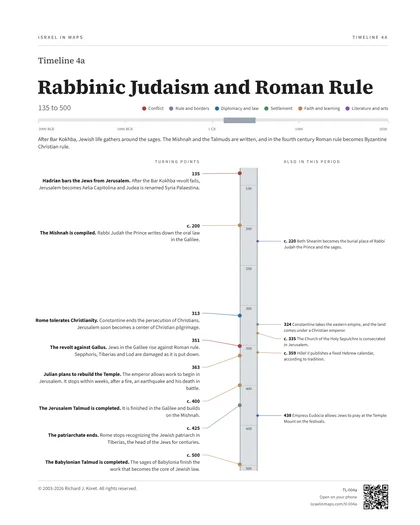
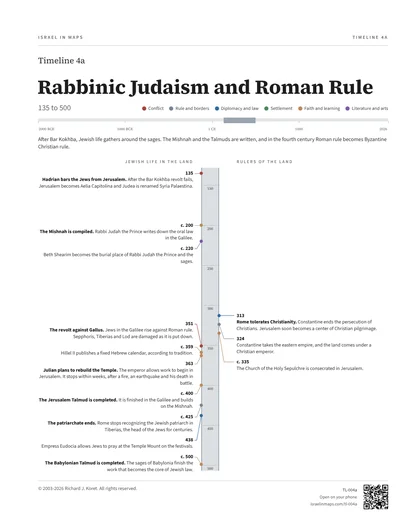
Timelines 135 to 1799: Jewish life left, rulers right; green menu on one row
Claude-Session: https://claude.ai/code/session_018gUa1G8nU9G3NzqqPm2U95

diff --git a/subnav.js b/subnav.js
@@ -30,7 +30,7 @@
     function swap(re,qs){qs.forEach(function(q){var x=row.querySelector('a[href="'+q[0]+'"]');if(x)x.textContent=q[1]});var f=links.filter(function(x){return re.test(x.getAttribute('href'))})[0];if(!f)return;var i=links.indexOf(f),add=[];qs.forEach(function(q){var x=row.querySelector('a[href="'+q[0]+'"]');if(!x){x=document.createElement('a');x.href=q[0];x.textContent=q[1];f.parentNode.insertBefore(x,f)}x.textContent=q[1];add.push(x)});links.splice.apply(links,[i,1].concat(add));f.remove();links=links.filter(function(x,j){return links.indexOf(x)===j})}
     swap(/^\/timelines\/002\//,[['/timelines/002a/kings-and-prophets/','Kings & Prophets'],['/timelines/002b/exile-and-return/','Exile & Return']]);
     swap(/^\/timelines\/012\//,[['/timelines/012a/independence-and-ingathering/','1948–1955'],['/timelines/012b/sinai-and-the-years-between/','1956–1966']]);swap(/^\/timelines\/013\//,[['/timelines/013a/the-six-day-war-and-yom-kippur/','1967–1976']]);swap(/^\/timelines\/014\//,[['/timelines/014a/upheaval-peace-and-intifada/','1977–1992']]);swap(/^\/timelines\/016\//,[['/timelines/016a/oslo-and-the-second-intifada/','1993–2004']]);swap(/^\/timelines\/017\//,[['/timelines/017a/disengagement-and-the-gaza-wars/','2005–2014']]);swap(/^\/timelines\/018\//,[['/timelines/018a/abraham-accords-to-october-7/','2015–2023']]);swap(/^\/timelines\/019\//,[['/timelines/019a/war-on-many-fronts/','2024–2026']]);links=links.filter(function(x){if(/^\/timelines\/01[2-9]\//.test(x.getAttribute('href'))){x.remove();return false}return true});
-    swap(/^\/timelines\/004\//,[['/timelines/004a/rabbinic-judaism-and-roman-rule/','Rabbinic'],['/timelines/004b/byzantine-decline-and-islamic-conquest/','Muslim'],['/timelines/004c/abbasid-and-early-medieval-judaism/','Abbasid'],['/timelines/004d/crusaders-and-ayyubids/','Crusader'],['/timelines/004e/mamluk-rule-and-the-spanish-expulsion/','Mamluk'],['/timelines/004f/ottoman-rule-and-jewish-resettlement/','Ottoman']]);
+    swap(/^\/timelines\/004\//,[['/timelines/004a/rabbinic-judaism-and-roman-rule/','Roman'],['/timelines/004b/byzantine-decline-and-islamic-conquest/','Muslim'],['/timelines/004c/abbasid-and-early-medieval-judaism/','Abbasid'],['/timelines/004d/crusaders-and-ayyubids/','Crusader'],['/timelines/004e/mamluk-rule-and-the-spanish-expulsion/','Mamluk'],['/timelines/004f/ottoman-rule-and-jewish-resettlement/','Ottoman']]);
     function stripes(y0,y1,n,a,b,f0,f1,nm){var r=[],w=(y1-y0)/n;for(var k=0;k<n;k++){var f=f0+(f1-f0)*k/(n-1),x=y0+k*w;r.push([x,x+w*(1-f),a,nm]);r.push([x+w*(1-f),x+w,b,nm])}return r}
     function mixc(a,b,t){var x=parseInt(a.slice(1),16),y=parseInt(b.slice(1),16),o='#';for(var s=16;s>=0;s-=8){var v=Math.round(((x>>s)&255)*(1-t)+((y>>s)&255)*t);o+=(v<16?'0':'')+v.toString(16)}return o}
     function ramp(ys,a,b){var r=[];for(var k=0;k<ys.length-1;k++)r.push([ys[k],ys[k+1],mixc(a,b,ys.length>2?k/(ys.length-2):0)]);return r}
@@ -57,7 +57,7 @@
       '.subnav.sub2.tl2{display:block;padding:8px 16px 10px}'+
       '.tl-eras{position:relative;max-width:900px;margin:0 auto;height:54px;background:linear-gradient(#0000 26px,#fff 26px);user-select:none}'+'.tl-eras .tb{position:absolute;top:0;height:26px;border:0;padding:0;margin:0;cursor:pointer;background:var(--c);transition:filter .15s}'+'.tl-eras .tb:hover{filter:brightness(.96)}'+'.tl-eras .tb[aria-selected=true]{box-shadow:inset 0 4px 0 #111}'+'.tl-eras .tb:focus-visible{outline:2px solid #111;outline-offset:1px;z-index:2}'+'.tl-eras .base{position:absolute;left:0;right:0;top:26px;height:1.5px;background:#111;pointer-events:none}'+'.tl-eras .tk{position:absolute;top:26px;width:1px;height:4px;background:#777;pointer-events:none}'+'.tl-eras .tk.mj{height:9px;width:1.5px;background:#111}'+'.tl-eras .lb{position:absolute;top:37px;transform:translateX(-50%);font:600 .7rem/1 system-ui,-apple-system,sans-serif;color:#111;white-space:nowrap;pointer-events:none}'+'.tl-eras .lb.st{transform:none}.tl-eras .lb.en{transform:translateX(-100%)}'+'.tl-eras .brk{position:absolute;top:0;width:3px;height:26px;margin-left:-1.5px;background:#fff;opacity:.9;transform:skewX(-12deg);pointer-events:none;z-index:1}'+'.tl-eras .lb i,.tl-eras .lb b{display:none}'+'.tl-list{display:flex;flex-wrap:wrap;justify-content:center;gap:2px 4px;margin-top:0}.tl-list.tl-sub{margin-top:2px}.tl-list[hidden]{display:none}'+
       '.subnav.sub2.tl2 .tl-list a{flex:none;border-radius:0!important;color:#222!important;transition:filter .15s}'+'.subnav.sub2.tl2 .tl-list a:hover{filter:brightness(.96)!important}'+'.subnav.sub2.tl2 .tl-list a.on{box-shadow:inset 0 4px 0 #111!important;color:#000!important}'+
-      '@media (max-width:700px){header.top .subnav.sub2.tl2 .tl-list.six a{flex:1 0 calc(33.3% - 4px)!important;text-align:center}.tl-eras .lb{font-size:.64rem}.tl-eras .lb b{display:none}}'+
+      '@media (max-width:700px){header.top .subnav.sub2.tl2 .tl-list.six{flex-wrap:nowrap;gap:0 2px}header.top .subnav.sub2.tl2 .tl-list.six a{flex:1 1 0!important;min-width:0;padding:6px 0!important;font-size:.7rem!important;text-align:center;white-space:nowrap;letter-spacing:-.01em}.tl-eras .lb{font-size:.64rem}.tl-eras .lb b{display:none}}'+
       '@media (max-width:380px){header.top .subnav.sub2.tl2 .tl-list a{padding:5px 2px!important;font-size:.74rem!important}.tl-eras .lb{font-size:.56rem}.tl-eras .lb.ce{display:none}}'+
       '@media (max-width:700px){.subnav.sub2.tl2{padding:8px 8px 8px}.tl-list{gap:0 2px}header.top .subnav.sub2.tl2 .tl-list a{padding:5px 4px!important;font-size:.8rem!important}.tl-list{justify-content:space-between!important}}';
       document.head.appendChild(st)}

diff --git a/tools/subnav.js b/tools/subnav.js
@@ -30,7 +30,7 @@
     function swap(re,qs){qs.forEach(function(q){var x=row.querySelector('a[href="'+q[0]+'"]');if(x)x.textContent=q[1]});var f=links.filter(function(x){return re.test(x.getAttribute('href'))})[0];if(!f)return;var i=links.indexOf(f),add=[];qs.forEach(function(q){var x=row.querySelector('a[href="'+q[0]+'"]');if(!x){x=document.createElement('a');x.href=q[0];x.textContent=q[1];f.parentNode.insertBefore(x,f)}x.textContent=q[1];add.push(x)});links.splice.apply(links,[i,1].concat(add));f.remove();links=links.filter(function(x,j){return links.indexOf(x)===j})}
     swap(/^\/timelines\/002\//,[['/timelines/002a/kings-and-prophets/','Kings & Prophets'],['/timelines/002b/exile-and-return/','Exile & Return']]);
     swap(/^\/timelines\/012\//,[['/timelines/012a/independence-and-ingathering/','1948–1955'],['/timelines/012b/sinai-and-the-years-between/','1956–1966']]);swap(/^\/timelines\/013\//,[['/timelines/013a/the-six-day-war-and-yom-kippur/','1967–1976']]);swap(/^\/timelines\/014\//,[['/timelines/014a/upheaval-peace-and-intifada/','1977–1992']]);swap(/^\/timelines\/016\//,[['/timelines/016a/oslo-and-the-second-intifada/','1993–2004']]);swap(/^\/timelines\/017\//,[['/timelines/017a/disengagement-and-the-gaza-wars/','2005–2014']]);swap(/^\/timelines\/018\//,[['/timelines/018a/abraham-accords-to-october-7/','2015–2023']]);swap(/^\/timelines\/019\//,[['/timelines/019a/war-on-many-fronts/','2024–2026']]);links=links.filter(function(x){if(/^\/timelines\/01[2-9]\//.test(x.getAttribute('href'))){x.remove();return false}return true});
-    swap(/^\/timelines\/004\//,[['/timelines/004a/rabbinic-judaism-and-roman-rule/','Rabbinic'],['/timelines/004b/byzantine-decline-and-islamic-conquest/','Muslim'],['/timelines/004c/abbasid-and-early-medieval-judaism/','Abbasid'],['/timelines/004d/crusaders-and-ayyubids/','Crusader'],['/timelines/004e/mamluk-rule-and-the-spanish-expulsion/','Mamluk'],['/timelines/004f/ottoman-rule-and-jewish-resettlement/','Ottoman']]);
+    swap(/^\/timelines\/004\//,[['/timelines/004a/rabbinic-judaism-and-roman-rule/','Roman'],['/timelines/004b/byzantine-decline-and-islamic-conquest/','Muslim'],['/timelines/004c/abbasid-and-early-medieval-judaism/','Abbasid'],['/timelines/004d/crusaders-and-ayyubids/','Crusader'],['/timelines/004e/mamluk-rule-and-the-spanish-expulsion/','Mamluk'],['/timelines/004f/ottoman-rule-and-jewish-resettlement/','Ottoman']]);
     function stripes(y0,y1,n,a,b,f0,f1,nm){var r=[],w=(y1-y0)/n;for(var k=0;k<n;k++){var f=f0+(f1-f0)*k/(n-1),x=y0+k*w;r.push([x,x+w*(1-f),a,nm]);r.push([x+w*(1-f),x+w,b,nm])}return r}
     function mixc(a,b,t){var x=parseInt(a.slice(1),16),y=parseInt(b.slice(1),16),o='#';for(var s=16;s>=0;s-=8){var v=Math.round(((x>>s)&255)*(1-t)+((y>>s)&255)*t);o+=(v<16?'0':'')+v.toString(16)}return o}
     function ramp(ys,a,b){var r=[];for(var k=0;k<ys.length-1;k++)r.push([ys[k],ys[k+1],mixc(a,b,ys.length>2?k/(ys.length-2):0)]);return r}
@@ -57,7 +57,7 @@
       '.subnav.sub2.tl2{display:block;padding:8px 16px 10px}'+
       '.tl-eras{position:relative;max-width:900px;margin:0 auto;height:54px;background:linear-gradient(#0000 26px,#fff 26px);user-select:none}'+'.tl-eras .tb{position:absolute;top:0;height:26px;border:0;padding:0;margin:0;cursor:pointer;background:var(--c);transition:filter .15s}'+'.tl-eras .tb:hover{filter:brightness(.96)}'+'.tl-eras .tb[aria-selected=true]{box-shadow:inset 0 4px 0 #111}'+'.tl-eras .tb:focus-visible{outline:2px solid #111;outline-offset:1px;z-index:2}'+'.tl-eras .base{position:absolute;left:0;right:0;top:26px;height:1.5px;background:#111;pointer-events:none}'+'.tl-eras .tk{position:absolute;top:26px;width:1px;height:4px;background:#777;pointer-events:none}'+'.tl-eras .tk.mj{height:9px;width:1.5px;background:#111}'+'.tl-eras .lb{position:absolute;top:37px;transform:translateX(-50%);font:600 .7rem/1 system-ui,-apple-system,sans-serif;color:#111;white-space:nowrap;pointer-events:none}'+'.tl-eras .lb.st{transform:none}.tl-eras .lb.en{transform:translateX(-100%)}'+'.tl-eras .brk{position:absolute;top:0;width:3px;height:26px;margin-left:-1.5px;background:#fff;opacity:.9;transform:skewX(-12deg);pointer-events:none;z-index:1}'+'.tl-eras .lb i,.tl-eras .lb b{display:none}'+'.tl-list{display:flex;flex-wrap:wrap;justify-content:center;gap:2px 4px;margin-top:0}.tl-list.tl-sub{margin-top:2px}.tl-list[hidden]{display:none}'+
       '.subnav.sub2.tl2 .tl-list a{flex:none;border-radius:0!important;color:#222!important;transition:filter .15s}'+'.subnav.sub2.tl2 .tl-list a:hover{filter:brightness(.96)!important}'+'.subnav.sub2.tl2 .tl-list a.on{box-shadow:inset 0 4px 0 #111!important;color:#000!important}'+
-      '@media (max-width:700px){header.top .subnav.sub2.tl2 .tl-list.six a{flex:1 0 calc(33.3% - 4px)!important;text-align:center}.tl-eras .lb{font-size:.64rem}.tl-eras .lb b{display:none}}'+
+      '@media (max-width:700px){header.top .subnav.sub2.tl2 .tl-list.six{flex-wrap:nowrap;gap:0 2px}header.top .subnav.sub2.tl2 .tl-list.six a{flex:1 1 0!important;min-width:0;padding:6px 0!important;font-size:.7rem!important;text-align:center;white-space:nowrap;letter-spacing:-.01em}.tl-eras .lb{font-size:.64rem}.tl-eras .lb b{display:none}}'+
       '@media (max-width:380px){header.top .subnav.sub2.tl2 .tl-list a{padding:5px 2px!important;font-size:.74rem!important}.tl-eras .lb{font-size:.56rem}.tl-eras .lb.ce{display:none}}'+
       '@media (max-width:700px){.subnav.sub2.tl2{padding:8px 8px 8px}.tl-list{gap:0 2px}header.top .subnav.sub2.tl2 .tl-list a{padding:5px 4px!important;font-size:.8rem!important}.tl-list{justify-content:space-between!important}}';
       document.head.appendChild(st)}

diff --git a/tools/newtimelines/gen_dual.py b/tools/newtimelines/gen_dual.py
@@ -1,0 +1,46 @@
+"""Green-era pages: Jewish life in the left column, the ruling powers in the right, one shared axis."""
+import json, sys, os
+sys.path.insert(0, os.path.dirname(__file__))
+import gen
+from data4 import PAGES
+from playwright.sync_api import sync_playwright
+T = gen.TPL
+R = [
+ ('.axis{position:absolute;left:685px;', '.axis{position:absolute;left:575px;'),
+ ('.tick{position:absolute;left:685px;', '.tick{position:absolute;left:575px;'),
+ ('.tl{position:absolute;left:687px;', '.tl{position:absolute;left:577px;'),
+ ('.tp{position:absolute;right:629px;width:470px;text-align:right;font:400 14.6px/1.36 SSans;', '.tp{position:absolute;right:648px;width:443px;text-align:right;font:400 var(--fs)/1.32 SSans;'),
+ ('.tp b.y{display:block;font:700 14.6px SSans;color:#222}', '.tp b.y,.al b.y{display:block;font-weight:700;color:#111}'),
+ ('.al{position:absolute;left:811px;width:298px;font:400 12.6px/1.33 SSans;color:#333}.al b{font-weight:700;font-size:13.6px;color:#111}',
+  '.al{position:absolute;left:676px;width:433px;font:400 var(--fs)/1.32 SSans;color:#333}.al b.h{font-weight:700;color:#111}body{--fs:14px}'),
+ ("h1.textContent='TURNING POINTS';h1.style.top=top0+'px';h1.style.right='629px'", "h1.textContent='JEWISH LIFE IN THE LAND';h1.style.top=top0+'px';h1.style.right='648px'"),
+ ("h2.textContent='ALSO IN THIS PERIOD';h2.style.top=top0+'px';h2.style.left='811px'", "h2.textContent='RULERS OF THE LAND';h2.style.top=top0+'px';h2.style.left='676px'"),
+ ("const tp=ord(D.tp),al=ord(D.also);", "const tp=ord(D.left),al=ord(D.right);"),
+ ("const tpp=stack(tp,it=>{const e=document.createElement('div');e.className='tp';e.innerHTML='<b class=\"y\">'+it[0]+'</b><b class=\"h\">'+it[3]+'</b> '+it[4];return e},16,9);",
+  "const mk=c=>it=>{const e=document.createElement('div');e.className=c;e.innerHTML='<b class=\"y\">'+it[0]+'</b>'+(it[3]?'<b class=\"h\">'+it[3]+'</b> ':'')+it[4];return e};let tpp,alp;"
+  "for(const fs of [14,13.4,12.8,12.2,11.6]){document.querySelectorAll('.tp,.al').forEach(e=>e.remove());document.body.style.setProperty('--fs',fs+'px');tpp=stack(tp,mk('tp'),fs*.8,9);alp=stack(al,mk('al'),fs*.8,9);"
+  "const bot=Math.max(...[...document.querySelectorAll('.tp,.al')].map(e=>e.offsetTop+e.offsetHeight));if(bot<=A1+6)break}"),
+ ("'<path d=\"M578 '+y1+' H593 L685 '+y2+'\"", "'<path d=\"M556 '+y1+' H562 L575 '+y2+'\""),
+ ("'<circle cx=\"685\" cy=\"'+y2+'\" r=\"5.5\"", "'<circle cx=\"575\" cy=\"'+y2+'\" r=\"4.6\""),
+ ("const alp=stack(al,it=>{const e=document.createElement('div');e.className='al';e.innerHTML='<b>'+it[0]+'</b> '+it[3];return e},6,9);", ""),
+ ("'<path d=\"M736 '+y2+' L790 '+y1+' H804\"", "'<path d=\"M626 '+y2+' L640 '+y1+' H669\""),
+ ("'<circle cx=\"736\" cy=\"'+y2+'\" r=\"3.6\"", "'<circle cx=\"626\" cy=\"'+y2+'\" r=\"4.6\""),
+ ("S+='<path d=\"M626 '+y2+' L640 '+y1+' H669\" stroke=\"'+C[it[2]]+'\" stroke-width=\"1\"", "S+='<path d=\"M626 '+y2+' L640 '+y1+' H669\" stroke=\"'+C[it[2]]+'\" stroke-width=\"1.2\""),
+]
+for a, b in R:
+    assert a in T, a[:70]; T = T.replace(a, b)
+T = T.replace("pos=pos.map(p=>Math.max(p,A0));els.forEach((e,i)=>e.style.top=pos[i]+'px');return pos}", "pos=pos.map(p=>Math.max(p,A0));for(let i=1;i<els.length;i++)pos[i]=Math.max(pos[i],pos[i-1]+els[i-1].offsetHeight+gap);els.forEach((e,i)=>e.style.top=pos[i]+'px');return pos}")
+T = T.replace("const tf=", "const tf=")
+with sync_playwright() as p:
+    b = p.chromium.launch()
+    for P in PAGES:
+        n = P['id'].lstrip('0')
+        D = dict(y0=P['y0'], y1=P['y1'], step=P['step'], left=P['left'], right=P['right'], tp=[], also=[])
+        h = (T.replace('%FONTS%', gen.FONTS).replace('%NUMUP%', n.upper()).replace('%NUM%', n).replace('%TITLE%', P['title'])
+             .replace('%RNG%', P.get('rng') or f"{P['y0']} to {P['y1']}").replace('%INTRO%', P['intro']).replace('%ID%', P['id'])
+             .replace('%QR%', gen.qr('https://israelinmaps.com/tl-' + P['id'])).replace('%CAT%', json.dumps(gen.CAT)).replace('%DATA%', json.dumps(D)))
+        pg = b.new_page(viewport={'width': 1200, 'height': 1500}); pg.on('pageerror', lambda e: print('ERR', e))
+        pg.set_content(h); pg.wait_for_function('window.OVER!==undefined')
+        print(P['id'], 'over', pg.evaluate('window.OVER'), pg.evaluate("getComputedStyle(document.body).getPropertyValue('--fs')"))
+        pg.screenshot(path=f'{sys.argv[1]}/{P["id"]}.png'); pg.close()
+    b.close()

diff --git a/tools/newtimelines/data4.py b/tools/newtimelines/data4.py
@@ -1,0 +1,12 @@
+# Green-era pages split into Jewish life (left) and the ruling powers (right).
+import data3
+LEFT = {135,200,351,363,400,425,499,220,359,438, 614,629,520,589, 900,928,880,920,921, 1190,1141,1165,1170,1211,
+        1267,1474,1488,1492,1322,1400,1428,1481,1497, 1565,1570,1660,1665,1700,1740,1540,1561,1577,1621,1648,1742,1777}
+PAGES = []
+for P in data3.PAGES:
+    L, R = [], []
+    for t in P['tp']: (L if t[1] in LEFT else R).append([t[0], t[1], t[2], t[3], t[4]])
+    for a in P['also']: (L if a[1] in LEFT else R).append([a[0], a[1], a[2], '', a[3]])
+    Q = dict(P); Q['left'] = sorted(L, key=lambda x: x[1]); Q['right'] = sorted(R, key=lambda x: x[1]); PAGES.append(Q)
+if __name__ == '__main__':
+    for P in PAGES: print(P['id'], len(P['left']), len(P['right']))
